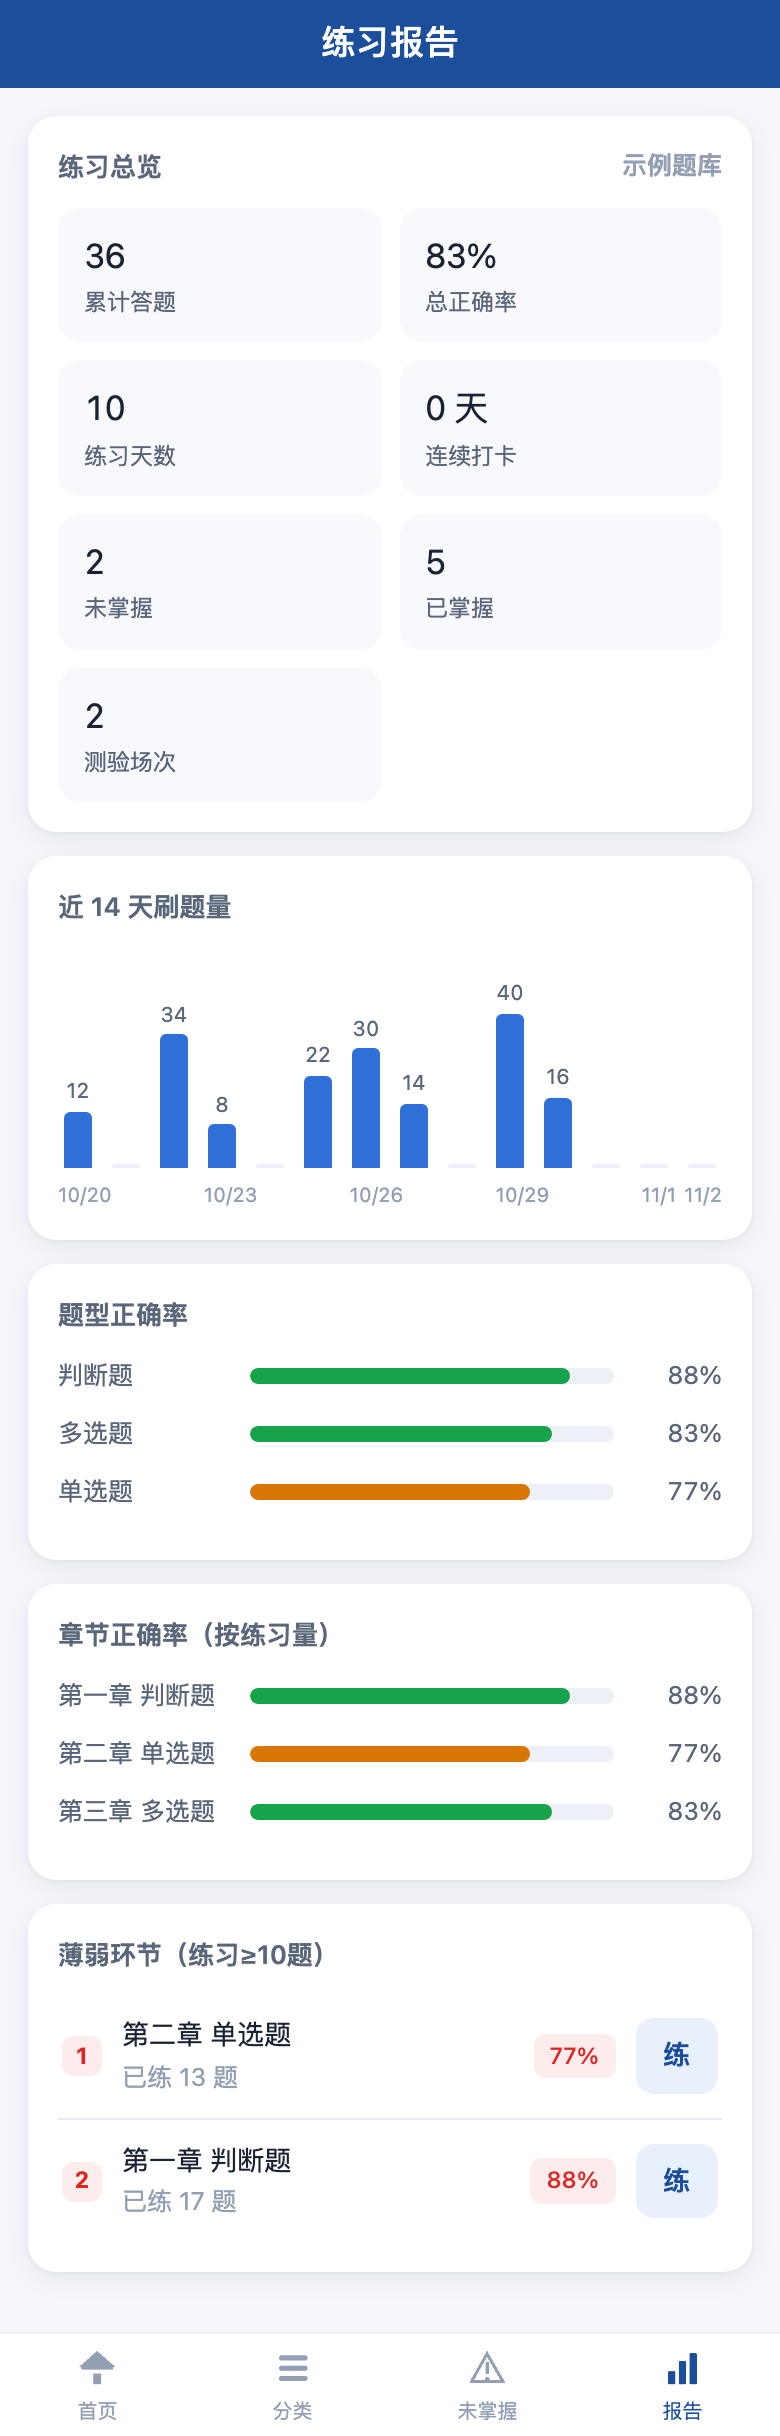
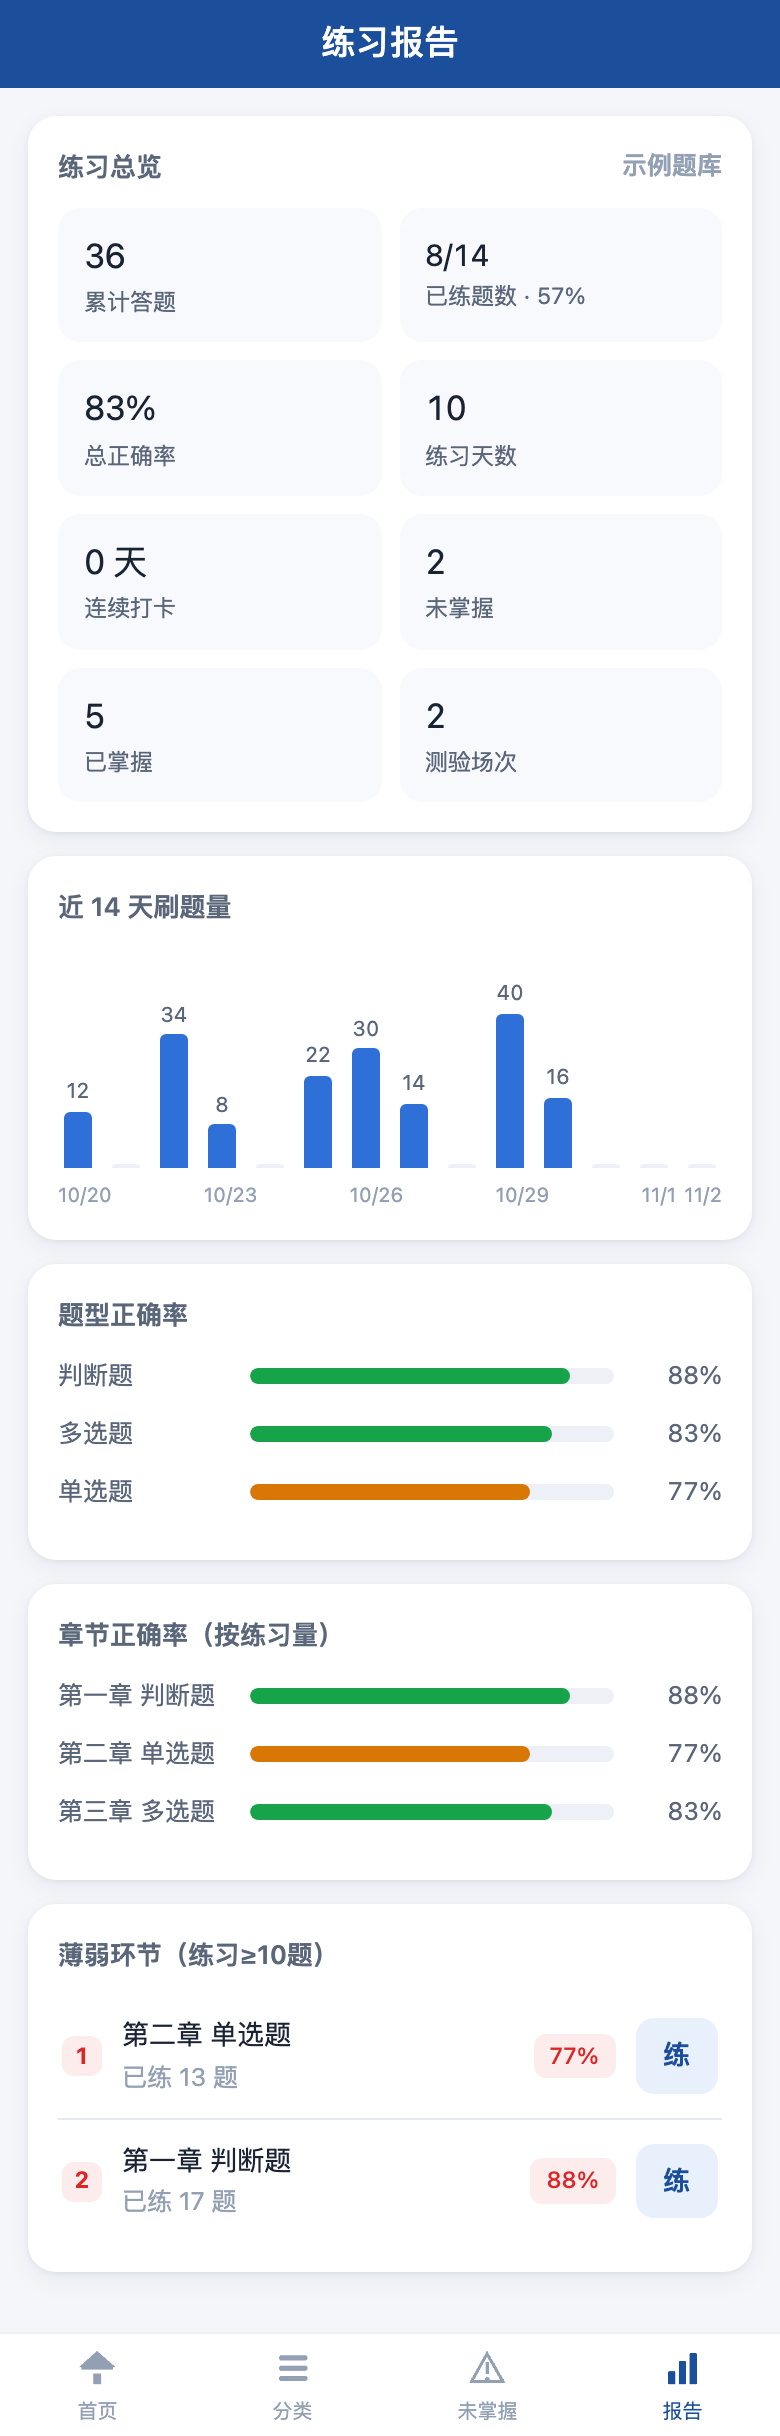
feat: 抽题改 A-Res + 近期降温，报告页加已练题数，设置页按钮拆两行
- 随机练习：weightedPick 换成加权不放回（Efraimidis-Spirakis A-Res，支持小数权重）；
  新增 S.recent 近期队列，「最近做过」的题权重再 ×0.25，窗口 = 题池一半（上限 500 道）。
  池 200 抽 50，相邻两轮重合 ~13 -> ~5 道。
- 题量档位跟着库规模走：固定 20/50/100，池 ≥100 再补 10% / 25%，最后「全部」。
- 报告页：store.stats() 新增去重口径 touchedN / bankTotal，总览第 2 格显示
  「已练题数 8/14 · 57%」（与次数口径的「累计答题」并存）；复制诊断信息带上该进度。
- 设置页主按钮拆两行：.btn 是 flex 行向，必须 flex-direction:column 才能上下排；
  样式写 app.wxss（项目无 per-page wxss）。
- 测试基线：lint 67 / logic 181（+2 条 touchedN 断言）/ regress 245。
- 截图按当前 14 题示例库重生。

diff --git a/miniprogram/utils/store.js b/miniprogram/utils/store.js
@@ -13,6 +13,9 @@ function defaultState() {
     hidden: {},     // chapter -> true
     collapsed: {},  // part -> true       分类页大标题折叠（下次打开沿用）
     qedits: {},     // qid -> {at, before} 单题修改的原值备份，供「还原为原始版本」
+    /* recent：最近做过的题（旧→新）。随机练习据此给「刚做过」的题降温，
+     * 避免同一个池子里反复抽到同一批题。上限见 recentCap()。 */
+    recent: [],
     practice: null, // 进行中的练习会话
     history: [],
     days: {},
@@ -46,7 +49,7 @@ function init() {
     if (raw) {
       var d = typeof raw === 'string' ? JSON.parse(raw) : raw;
       if (d && d.v === 1) {
-        ['qs', 'wrong', 'mastered', 'hidden', 'collapsed', 'qedits', 'practice', 'history', 'days', 'streak', 'settings', 'bankFp'].forEach(function (k) {
+        ['qs', 'wrong', 'mastered', 'hidden', 'collapsed', 'qedits', 'recent', 'practice', 'history', 'days', 'streak', 'settings', 'bankFp'].forEach(function (k) {
           if (d[k] !== undefined) S[k] = d[k];
         });
       }
@@ -54,6 +57,7 @@ function init() {
     if (!S.mastered) S.mastered = {};   // 旧存档（无 mastered 字段）兜底
     if (!S.collapsed) S.collapsed = {}; // 旧存档（无 collapsed 字段）兜底
     if (!S.qedits) S.qedits = {};
+    if (!Array.isArray(S.recent)) S.recent = [];   // 旧存档（无 recent 字段）兜底
     /* 旧存档的 settings 里没有 autoMaster：补默认值 2（不能补 0，否则升级后功能悄悄失效） */
     if (S.settings.autoMaster === undefined) S.settings.autoMaster = 2;
   } catch (e) { console.warn('状态读取失败', e); }
@@ -86,6 +90,7 @@ function autoMasterThreshold() {
  * 自动掌握会让用户莫名多出一批「已掌握」；所以测验既不推进 cs，也不自动掌握。
  * cs（连续答对）只在练习模式推进，答错一律清零。 */
 function _recordAnswer(qid, ok, autoMaster) {
+  _touchRecent(qid);   // 做过就进「近期」队列，随机练习据此降温
   var st = S.qs[qid] || (S.qs[qid] = { r: 0, w: 0, last: 0, at: 0 });
   if (ok) st.r++; else st.w++;
   st.last = ok ? 1 : -1;
@@ -163,34 +168,65 @@ function markMastered(qid) {
 function isMastered(qid) { return !!S.mastered[qid]; }
 function masteredCount() { return Object.keys(S.mastered).length; }
 
-/* 抽题权重：未掌握 4 / 未作答 2 / 已掌握 1 */
-function weightOf(qid) {
-  if (S.wrong[qid]) return 4;
-  if (S.mastered[qid]) return 1;
-  return 2;
+/* ---------- 随机抽题 ----------
+ * 基础权重：未掌握 4 / 未作答 2 / 已掌握 1
+ * 近期降温：最近做过的题再乘 0.25 —— 「做过了但还没到自动掌握门槛」的题以前和
+ * 从没见过的题完全等价（weightOf 只看两张标记表、不看时间），一轮接一轮地重复出现。
+ */
+var RECENT_FACTOR = 0.25;
+/* 降温窗口宽度 = 题池的一半（按比例走：库大库小都成立），且不少于本轮题量。
+ * 池 100 抽 50 → 最近 50 道降温；池 3000 抽 50 → 最近 1500 道里的（受队列上限约束）降温。 */
+var RECENT_RATIO = 0.5;
+
+function weightOf(qid, recentSet) {
+  var w = S.wrong[qid] ? 4 : (S.mastered[qid] ? 1 : 2);
+  if (recentSet && recentSet[qid]) w *= RECENT_FACTOR;
+  return w;
 }
 
-/* 加权不放回抽样：按权重把 id 重复投进池子再洗牌去重，权重高的更靠前 */
+/* 队列上限跟着题库规模走，最多 500 条：换大库也不会让存档无限膨胀 */
+function recentCap() {
+  return Math.min(500, Math.max(30, logic.QLIST.length));
+}
+
+/* 记一道「刚做过」的题。已在队列里的先摘掉再补到队尾，
+ * 否则同一道题反复做会把队列占满，把真正久没做的题挤出窗口。 */
+function _touchRecent(qid) {
+  var r = S.recent;
+  var i = r.indexOf(qid);
+  if (i >= 0) r.splice(i, 1);
+  r.push(qid);
+  var cap = recentCap();
+  if (r.length > cap) r.splice(0, r.length - cap);
+}
+
+/* 窗口内「最近做过」的集合。只认当前题池里的 id：
+ * 换库后残留的旧 id 不该白占窗口，否则降温会悄悄失效。 */
+function recentSetOf(ids, n) {
+  var win = Math.max(n || 0, Math.ceil(ids.length * RECENT_RATIO));
+  var inPool = {}, set = {};
+  for (var i = 0; i < ids.length; i++) inPool[ids[i]] = 1;
+  for (var j = Math.max(0, S.recent.length - win); j < S.recent.length; j++) {
+    if (inPool[S.recent[j]]) set[S.recent[j]] = 1;
+  }
+  return set;
+}
+
+/* 加权不放回抽样（Efraimidis-Spirakis A-Res）：每题取 key = random^(1/w)，
+ * 按 key 降序取前 n —— 权重 w 的题入选概率正比于 w。
+ * 原来「按权重重复投袋 → 洗牌 → 去重取前 n」只能表达整数权重，取的是副本的
+ * 最小位置，分布比理论值更偏，也没法给「最近做过」加小数点级的降温。 */
 function weightedPick(ids, n) {
-  var bag = [];
-  for (var i = 0; i < ids.length; i++) {
-    var w = weightOf(ids[i]);
-    for (var k = 0; k < w; k++) bag.push(ids[i]);
-  }
-  var sh = logic.shuffle(bag);
-  var seen = {}, out = [];
-  for (var j = 0; j < sh.length && out.length < n; j++) {
-    if (seen[sh[j]]) continue;
-    seen[sh[j]] = 1;
-    out.push(sh[j]);
-  }
-  // 池子被去重后不足 n（理论上不会，权重≥1 保证 bag ≥ ids），兜底补齐
-  if (out.length < n) {
-    for (var m = 0; m < ids.length && out.length < n; m++) {
-      if (!seen[ids[m]]) { seen[ids[m]] = 1; out.push(ids[m]); }
-    }
-  }
-  return out;
+  if (!ids || !ids.length || n <= 0) return [];
+  var recent = recentSetOf(ids, n);
+  var scored = ids.map(function (id) {
+    var u = Math.random() || 1e-9;   // u=0 时 key 恒为 0，整池会并列
+    return { id: id, k: Math.pow(u, 1 / weightOf(id, recent)) };
+  });
+  scored.sort(function (a, b) { return b.k - a.k; });
+  var out = scored.slice(0, Math.min(n, ids.length)).map(function (o) { return o.id; });
+  // 抽中之后要打乱：按 key 降序排列会把未掌握题全堆在开头，一眼就看得出抽题顺序
+  return logic.shuffle(out);
 }
 
 /* ---------- 练习会话 ---------- */
@@ -402,6 +438,7 @@ function reconcileBank() {
   S.bankFp = cur;
   pruneGhosts();
   S.practice = null;                        // 进行中的会话属于旧题库，题号已对不上
+  S.recent = [];                            // 近期队列同理：旧题库的 id 对新库毫无意义
   save();
   return changed ? 'changed' : 'same';
 }
@@ -443,12 +480,16 @@ function currentStreak() {
  * 没有题库就没有练习统计——归零，而不是显示上一套题库的数字。 */
 function stats() {
   var noBank = !logic.QLIST.length;
-  var totalAns = 0, totalRight = 0;
+  var totalAns = 0, totalRight = 0, touchedN = 0;
   if (!noBank) {
     Object.keys(S.qs).forEach(function (id) {
       if (!logic.QMAP[id]) return;
-      totalAns += S.qs[id].r + S.qs[id].w;
-      totalRight += S.qs[id].r;
+      var rec = S.qs[id];
+      totalAns += rec.r + rec.w;
+      totalRight += rec.r;
+      /* 去重口径：真正作答过（r+w>0）才算「练过这道题」。
+       * 只被塞进「未掌握」但一次没答的不算，否则分母会被清空的旧记录抬高。 */
+      if (rec.r + rec.w > 0) touchedN++;
     });
   }
   function inBank(table) {
@@ -457,6 +498,9 @@ function stats() {
   return {
     noBank: noBank,
     totalAns: totalAns,
+    /* touchedN/bankTotal：去重后的练习进度，totalAns 是次数口径，两者不可互相推导 */
+    touchedN: touchedN,
+    bankTotal: noBank ? 0 : logic.QLIST.length,
     accuracy: totalAns ? logic.pct(totalRight, totalAns) + '%' : '-',
     days: noBank ? 0 : Object.keys(S.days).length,
     streakN: noBank ? 0 : currentStreak(),

diff --git a/build/mp-logic-test.js b/build/mp-logic-test.js
@@ -313,6 +313,36 @@ function freshStore(keepStorage) {
     const edge = bigPool.slice(0, Math.min(7, bigPool.length));
     ok(store.weightedPick(edge, 50).length === edge.length, '池子不足时返回全部');
 
+    /* 近期降温：刚做过的一轮题，下一轮必须明显避开。
+       原来 weightOf 只看两张标记表、不看时间，「做过了但没到自动掌握门槛」的题
+       和从没见过的题概率完全一样，才会出现同一批题连着几轮反复抽到。 */
+    const bakWrong = store.S.wrong, bakMastered = store.S.mastered;
+    store.S.wrong = {}; store.S.mastered = {}; store.S.recent = [];
+    /* 用合成 id，不依赖当前题库的题型数量：weightedPick 只认 id 字符串，
+       没有标记记录的 id 权重一律为 2，正好是「做过了但没被标记」那批题。 */
+    const heat = [];
+    for (let i = 0; i < 80; i++) heat.push('h' + i);
+    if (heat.length >= 40) {
+      const HN = 20, HR = 60;
+      let ovCold = 0, ovWarm = 0;
+      for (let i = 0; i < HR; i++) {
+        store.S.recent = [];
+        const a = store.weightedPick(heat, HN);
+        const cold = store.weightedPick(heat, HN);            // 不带近期记录
+        ovCold += cold.filter(id => a.indexOf(id) >= 0).length;
+        store.S.recent = a.slice();                          // 当作刚做完的一轮
+        const warm = store.weightedPick(heat, HN);
+        ovWarm += warm.filter(id => a.indexOf(id) >= 0).length;
+      }
+      const cAvg = ovCold / HR, wAvg = ovWarm / HR;
+      ok(wAvg < cAvg * 0.8, '近期做过的题降权生效（相邻两轮重合明显下降）',
+        '有降温 ' + wAvg.toFixed(1) + ' vs 无 ' + cAvg.toFixed(1) + ' / 满分 ' + HN);
+    } else {
+      skip('近期降温有效', '判断题仅 ' + heat.length + ' 道，需 ≥40 才有统计意义');
+    }
+    store.S.wrong = bakWrong; store.S.mastered = bakMastered; store.S.recent = [];
+
+
     // 考试模式不加权（公平随机）
     store.ui.setupCount = 20;
     store.startPractice('exam', bigPool);
@@ -333,6 +363,18 @@ function freshStore(keepStorage) {
     const store4 = freshStore(true);
     store4.init();
     ok(store4.S.mastered && typeof store4.S.mastered === 'object', '旧存档缺 mastered 时兜底为空对象');
+    ok(Array.isArray(store4.S.recent), '旧存档缺 recent 时兜底为空数组');
+
+    /* 近期队列自身的行为：答过的进队列、重复答只占一份、换库清空 */
+    store.S.recent = [];
+    const rq = logic.QLIST[0].id;
+    store.recordAnswer(rq, true);
+    ok(store.S.recent[store.S.recent.length - 1] === rq, '答过的题进近期队列', store.S.recent.slice(-1).join(''));
+    store.recordAnswer(rq, true);
+    ok(store.S.recent.filter(id => id === rq).length === 1, '重复答同一题在队列里只占一份',
+      '共 ' + store.S.recent.length + ' 条');
+    const cap = Math.min(500, Math.max(30, logic.QLIST.length));
+    ok(store.S.recent.length <= cap, '近期队列不超过规模上限 ' + cap, '当前 ' + store.S.recent.length + ' 条');
   }
 
   /* ===== 10. 题库导入：bank-validate / bank-store / logic.reload ===== */
@@ -479,6 +521,11 @@ function freshStore(keepStorage) {
     'stats：幽灵 id 不计入（totalAns=' + st1.totalAns + '）', st1.accuracy);
   ok(st1.wrongN === 1 && st1.masteredN === 0, 'stats：未掌握/已掌握只算库内题',
     st1.wrongN + '/' + st1.masteredN);
+  /* touchedN 是去重口径：q0001 答过（r2w1）算 1；q0002 只在 wrong 里、没答过不算；
+   * ghostX 是旧库幽灵 id，不计入。分母取库内题量，不是 totalAns。 */
+  ok(st1.touchedN === 1 && st1.bankTotal === bank2.length,
+    'stats：已练题数去重且排除幽灵 id（' + st1.touchedN + '/' + st1.bankTotal + '）',
+    'totalAns=' + st1.totalAns);
 
   ok(store11.reconcileBank() === 'same' && !!store11.S.qs.q0001, 'reconcileBank：同一题库重复对账为 same 且不动记录');
   bankStore.clear();
@@ -490,6 +537,8 @@ function freshStore(keepStorage) {
   const st0 = store11.stats();
   ok(st0.noBank && st0.totalAns === 0 && st0.wrongN === 0 && st0.streakN === 0 && st0.examN === 0,
     'stats：空态全部归零，不显示上一套题库的数字', JSON.stringify(st0));
+  ok(st0.touchedN === 0 && st0.bankTotal === 0, 'stats：空态已练题数同为 0/0（不是 -/-）',
+    st0.touchedN + '/' + st0.bankTotal);
 
   ok(store11.hasStats(), 'hasStats：识别出练习痕迹');
   store11.resetStats();

diff --git a/miniprogram/pages/setup/setup.js b/miniprogram/pages/setup/setup.js
@@ -69,10 +69,19 @@ Page({
     /* 开始按钮的题量 = 实际抽题数，不是题池总数（原来选 20 题时按钮写着「60 题」）。
        题量选项只留「小于题池」的固定档 + 题池总数（标「全部」）并去重：
        原来 20/50/100 都 ≥ 题池时统统标成「全部」，7 题的库会出现 4 个「全部」。 */
+    /* 题量档位：固定档 20/50/100 给「今天想做二十题」这种明确目标，再补比例档
+       10% / 25%（大题库里固定档太少：3000 题抽 50 连 2% 都不到）。比例档只在
+       池 ≥ 100 时出现，小题库再加只会挤出一堆没意义的数字。最后补「全部」。 */
     let counts = [], startN = pool.length;
     if (pool.length && (this.data.mode === 'rand' || isExam)) {
-      const base = [20, 50, 100].filter(n => n < pool.length).concat([pool.length]);
-      const uniq = base.filter((n, i, a) => a.indexOf(n) === i).sort((x, y) => x - y);
+      const base = [20, 50, 100].filter(n => n < pool.length);
+      if (pool.length >= 100) {
+        [0.1, 0.25].forEach(r => {
+          const n = Math.round(pool.length * r / 10) * 10;   // 取整到十位，不出现「137 题」这种档
+          if (n > 0 && n < pool.length) base.push(n);
+        });
+      }
+      const uniq = base.concat([pool.length]).filter((n, i, a) => a.indexOf(n) === i).sort((x, y) => x - y);
       if (uniq.indexOf(store.ui.setupCount) < 0) store.ui.setupCount = uniq[uniq.length - 1];
       counts = uniq.map(n => ({ n: n, label: n === pool.length ? '全部' : n + '题', on: store.ui.setupCount === n }));
       startN = Math.min(store.ui.setupCount, pool.length);

diff --git a/miniprogram/pages/report/report.js b/miniprogram/pages/report/report.js
@@ -13,6 +13,9 @@ const AUTO_OPTIONS = [
 Page({
   data: {
     totalAns: 0,
+    touchedN: 0,
+    bankTotal: 0,
+    touchPct: '-',
     accuracy: '-',
     days: 0,
     streakN: 0,
@@ -88,6 +91,10 @@ Page({
 
     this.setData({
       totalAns: st.totalAns,
+      /* 去重口径进度：累计答题是次数，同一题刷 5 次算 5，看不出题库覆盖了多少 */
+      touchedN: st.touchedN,
+      bankTotal: st.bankTotal,
+      touchPct: st.bankTotal ? logic.pct(st.touchedN, st.bankTotal) : '-',
       accuracy: st.accuracy,
       days: st.days,
       streakN: st.streakN,
@@ -173,6 +180,7 @@ Page({
       bankName: info.name || '',
       fp: info.fp || '',
       ansN: st.totalAns,
+      touched: st.touchedN + '/' + st.bankTotal,
       acc: st.accuracy,
       wrongN: st.wrongN,
       masteredN: st.masteredN,

diff --git a/miniprogram/utils/contact.js b/miniprogram/utils/contact.js
@@ -43,6 +43,7 @@ function ready() {
  *   bankName   题库名
  *   fp         题库指纹（只取前 8 位，能确认是不是同一套库）
  *   ansN / acc 累计答题数 / 正确率
+ *   touched    去重后的练习进度（"128/1429"），看得出到底覆盖了多少题
  *   wrongN     未掌握数
  *   masteredN  已掌握数
  *   examN      测验场次
@@ -64,6 +65,7 @@ function buildTemplate(ctx) {
 
   const stat = [];
   if (ctx.ansN !== undefined) stat.push('已答 ' + ctx.ansN + ' 题');
+  if (ctx.touched) stat.push('已练 ' + ctx.touched);
   if (ctx.acc) stat.push('正确率 ' + ctx.acc);
   if (ctx.wrongN !== undefined) stat.push('未掌握 ' + ctx.wrongN);
   if (ctx.masteredN !== undefined) stat.push('已掌握 ' + ctx.masteredN);

diff --git a/README.md b/README.md
@@ -59,8 +59,12 @@
 - **自动标记**的门槛在「报告 → 设置 → 自动标记掌握」里可调（连续 2 次 / 3 次 / 不自动）。只统计练习模式：测验答对不计入，因为测验不给即时反馈，自动标记会显得莫名其妙。
 - 答错一次即清零连续计数，并立刻退出「已掌握」——同一道题不会同时出现在「已掌握」和「未掌握」两处。
 - 手动点「标记未掌握」也会把连续计数清零，否则下一次答对立刻又被自动标成已掌握，按钮像没生效。
-- **随机练习**按上面的权重加权抽题；**模拟测验不加权**（保持公平抽样，成绩才有可比性）；顺序练习按题库原序，不涉及概率。
+- **近期降温**：最近做过的题权重再乘 **0.25**，避免同一批题连着几轮反复出现。降温窗口按题池比例走——窗口宽度 = 当前题池的一半（池大池小都成立），队列最多记 500 道。池 200 题每轮抽 50 题，相邻两轮的重合从原来约 13 道降到约 5 道；5 轮里出现 4 次的题从 3.4 道降到 0.4 道。
+- **随机练习**按上面的权重加权抽题（加权不放回，A-Res 算法，支持小数权重）；**模拟测验不加权**（保持公平抽样，成绩才有可比性）；顺序练习按题库原序，不涉及概率。
+- 题量档位跟着题库规模走：固定档 20 / 50 / 100 题，池 ≥ 100 题时再补 10% / 25% 两档，最后是「全部」。3 千题的库抽 50 题连 2% 都不到，光靠固定档覆盖不过来。
 - 主观题自评的「已掌握 / 未掌握」按钮与客观题是同一套状态。
+
+报告页「练习总览」有两个互不推导的进度口径：**累计答题**是次数（同一道题练 5 次算 5），**已练题数**是去重覆盖（形如 `8/14`，分母是当前题库总题数，只统计真正作答过的题）。想知道「这套题库碰过多少」看后者。
 
 ## 改题目、改题库名
 
